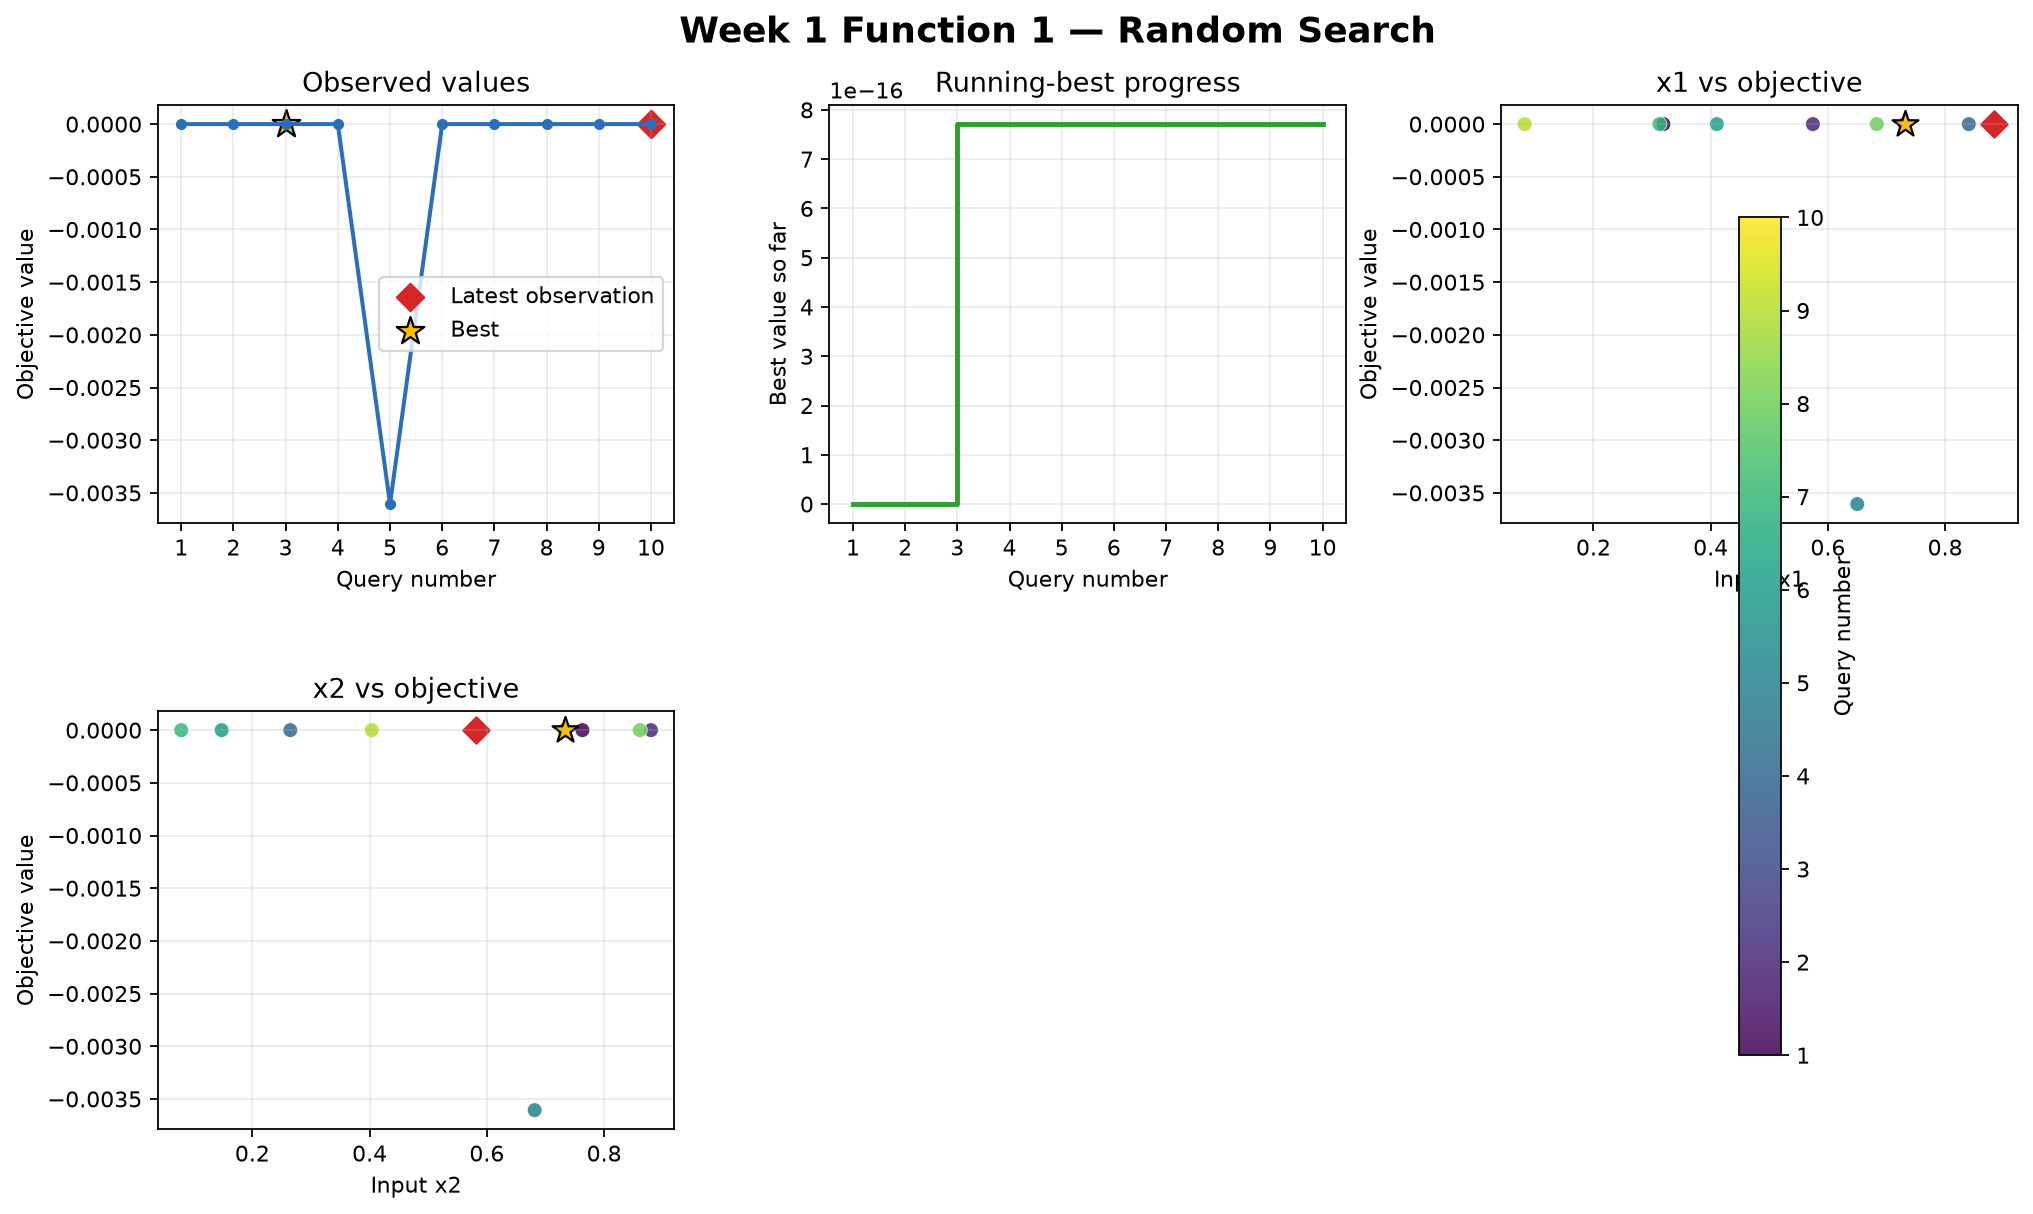
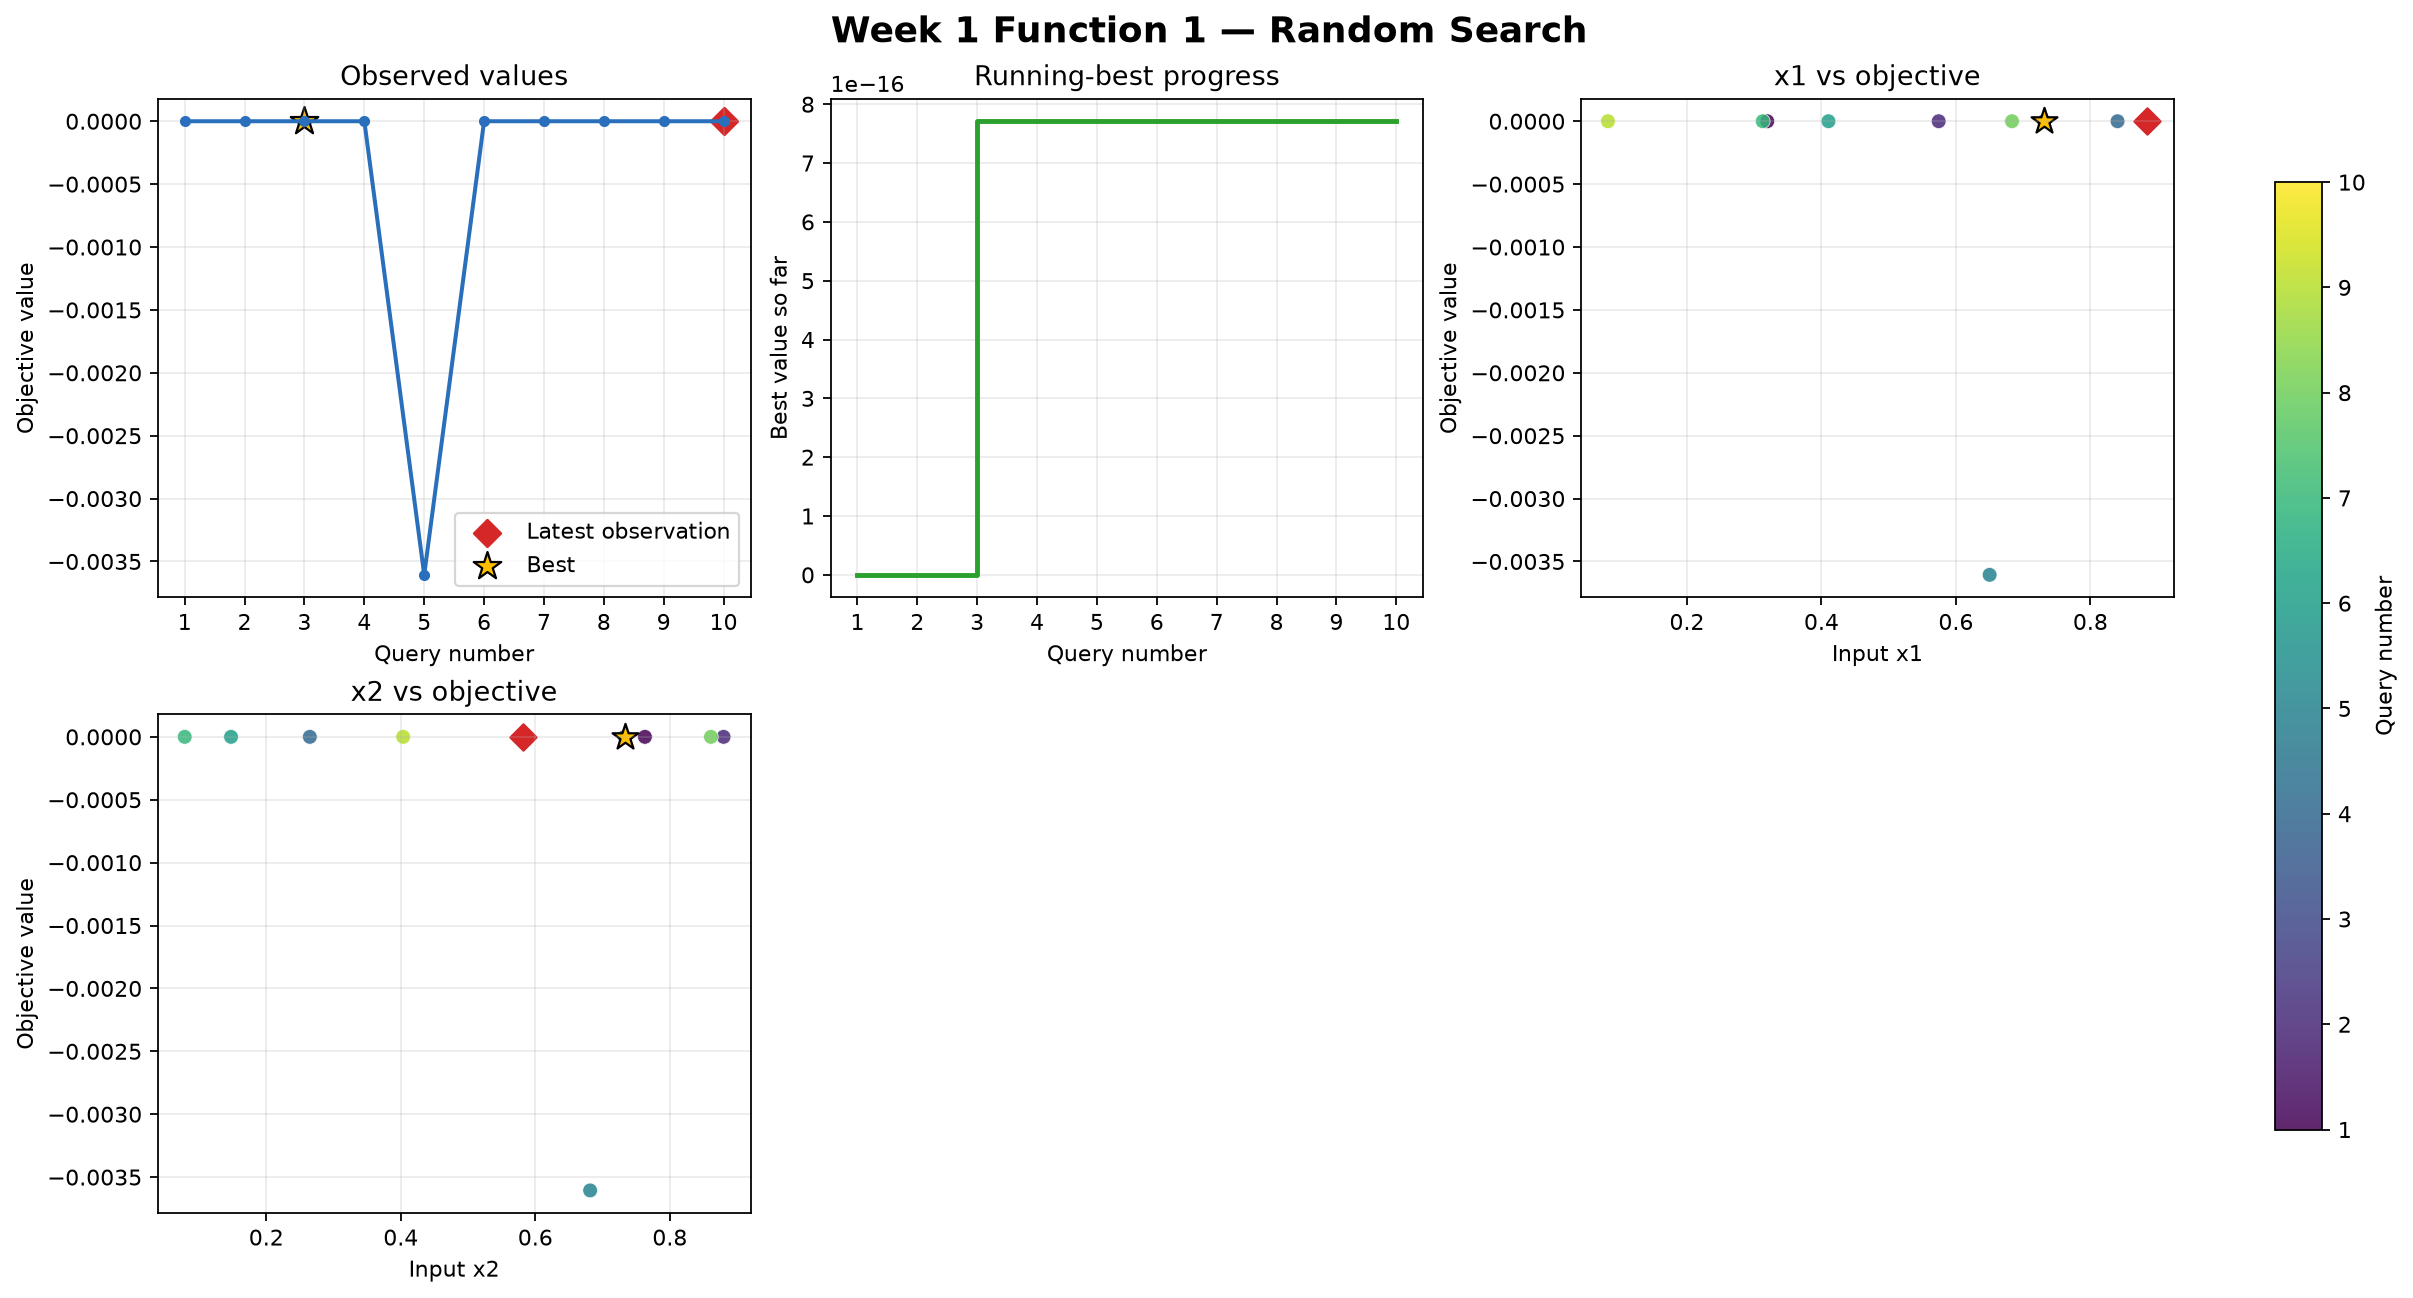
Refresh Week 1 Function 1 baseline figures

diff --git a/Week_01/Function_01/02_Code/analyse_function_01.py b/Week_01/Function_01/02_Code/analyse_function_01.py
@@ -55,8 +55,11 @@ def write_artifacts(
     written = {"observations": observations_path, "summary": summary_path}
     if write_figure:
         figure_path = figures_dir / "function_01_diagnostics.png"
+        compatibility_path = figures_dir / "week_01_function_01_diagnostics.png"
         figure.savefig(figure_path, dpi=160, bbox_inches="tight")
+        figure.savefig(compatibility_path, dpi=160, bbox_inches="tight")
         written["figure"] = figure_path
+        written["compatibility_figure"] = compatibility_path
     plt.close(figure)
     return written
 

diff --git a/Week_01/Function_01/05_Figures/README.md b/Week_01/Function_01/05_Figures/README.md
@@ -1,7 +1,12 @@
 # Week 01 Function 01 figures
 
 - `function_01_diagnostics.png` combines the objective history, running-best
-  progress, and both input/output relationships in one Matplotlib figure.
+  progress, and both input/output relationships for the
+  ten-observation starter baseline.
+- `week_01_function_01_diagnostics.png` is a compatibility filename containing
+  the same regenerated baseline figure; it does not include the later Week 1
+  ledger return.
 
 The figure is generated from the canonical arrays by
-[`../02_Code/analyse_function_01.py`](../02_Code/analyse_function_01.py).
+[`../02_Code/analyse_function_01.py`](../02_Code/analyse_function_01.py) using
+`--write-artifacts --write-figure`.

diff --git a/Week_01/Function_01/06_Documentation/methodology.md b/Week_01/Function_01/06_Documentation/methodology.md
@@ -31,3 +31,7 @@ notebook cell order. Run it from the repository root with:
 The command deterministically recreates `observations.csv` and `summary.json`
 from the immutable starter arrays. Add `--write-figure` only when the optional
 diagnostic PNG should also be refreshed.
+
+The figure uses four panels: ordered output history, running best, and one
+scatter plot for each of the two inputs. All panels use
+the same ten starter rows as the main Week 1 notebook.
